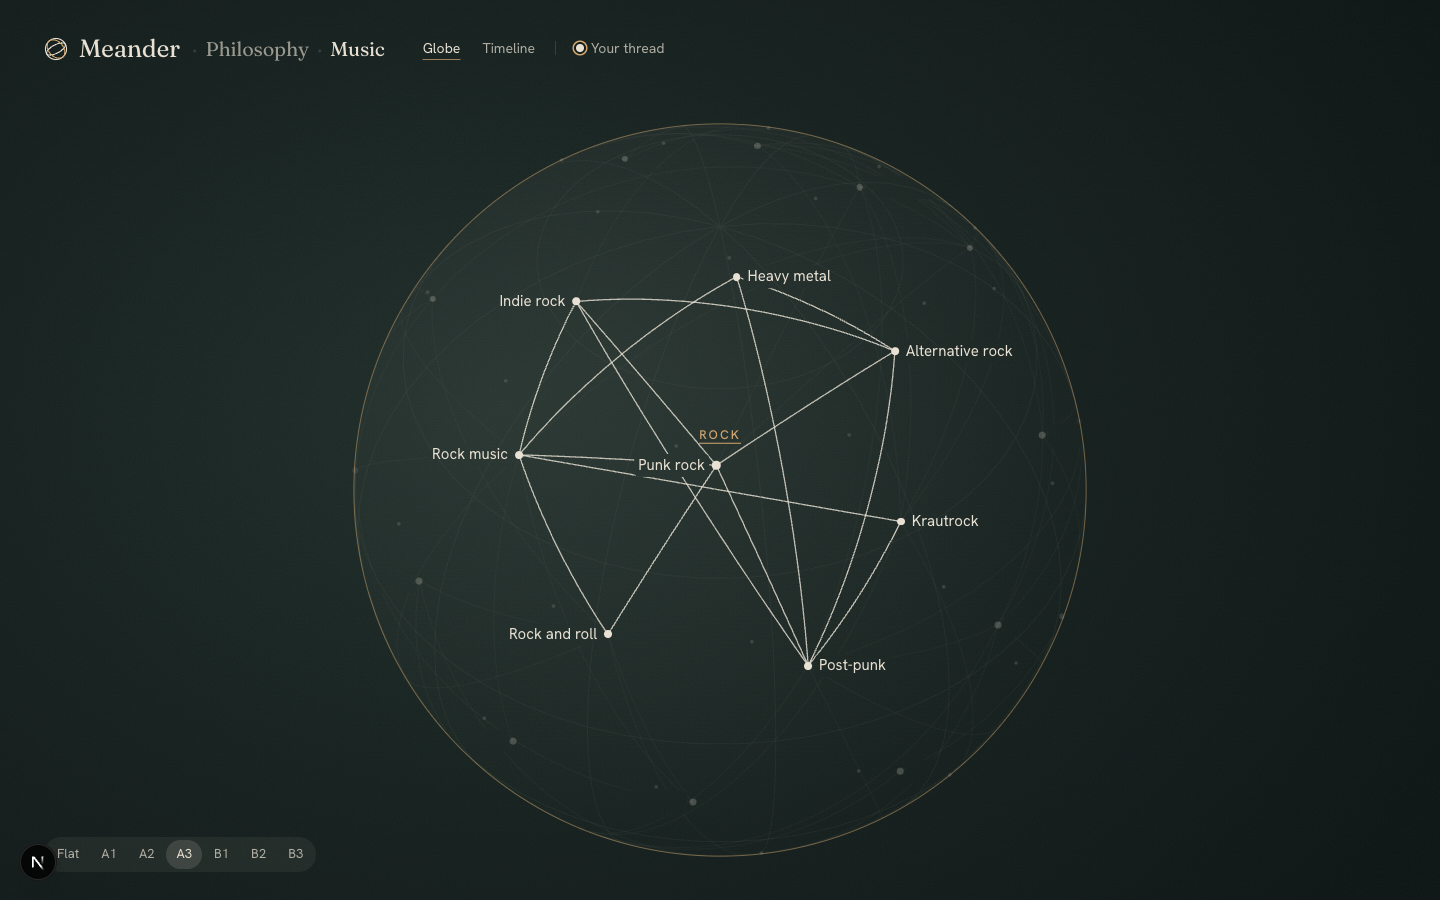
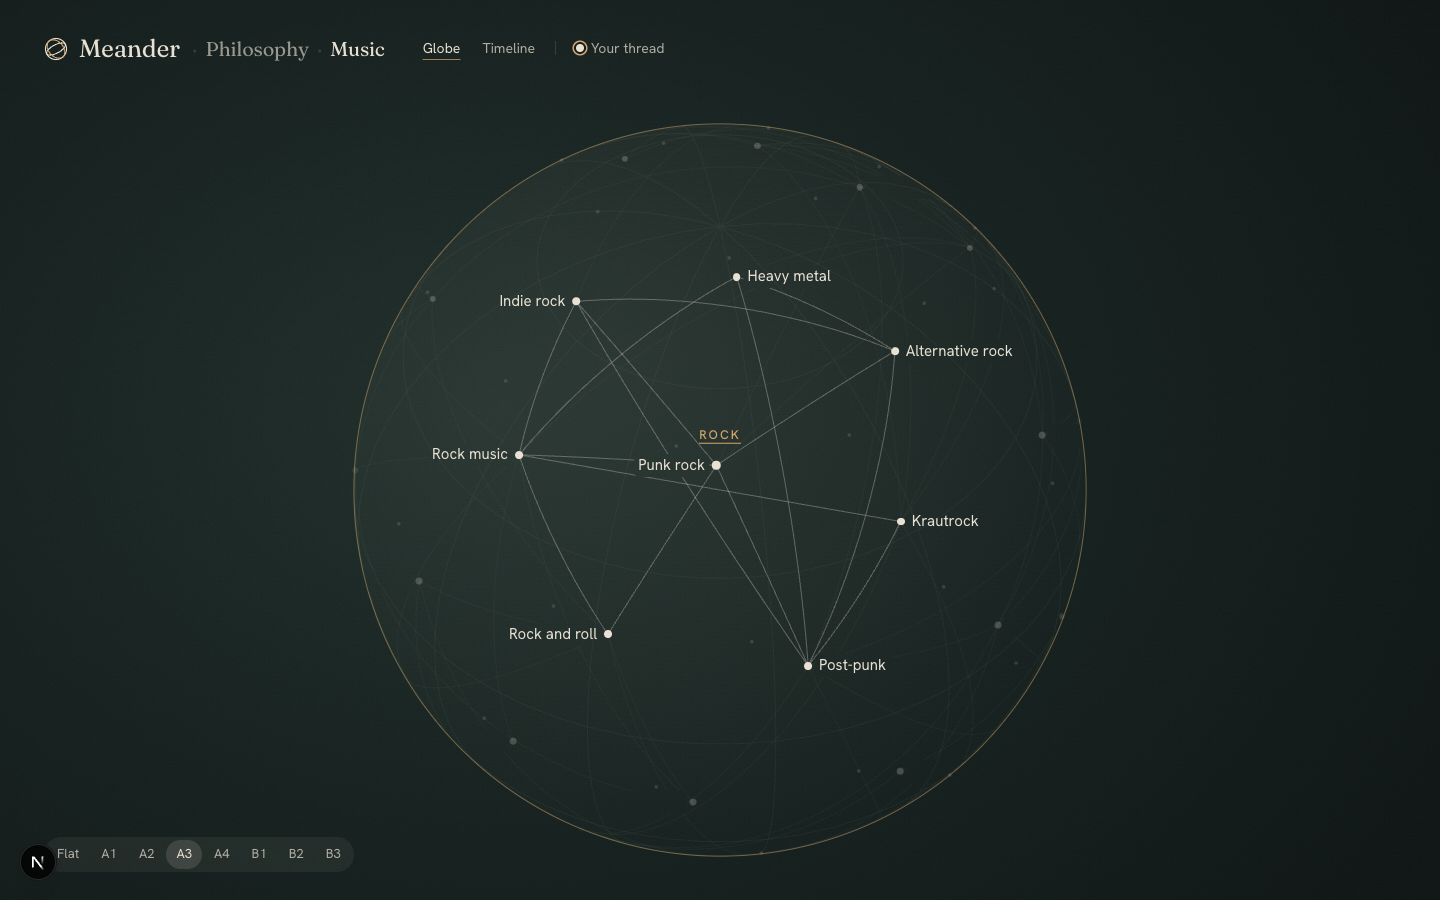
11 Meander: critic round 2, A4 (list + front family names), round 2 fixes

diff --git a/apps/11-meander/src/components/spin-globe.tsx b/apps/11-meander/src/components/spin-globe.tsx
@@ -4,7 +4,7 @@
 // turn it, and opening a school turns it to the front. Two families of directions, three each:
 //  A, spin with a light overview (neighbours round the back always pinned to the rim):
 //   a1 faint back-side dots + "The whole map" family list; a2 a small flat mini-map of everything, with the part
-//   you face ringed; a3 family names floating over their regions, the back ones faint, plus back-side dots.
+//   you face ringed; a3 family names floating over their front regions, plus back-side dots; a4 (critic r2) = a1 + a3.
 //  B, pure spin (nothing stands in for the back half):
 //   b1 the plain globe; b2 close-up, a bigger globe rising from the bottom like a horizon; b3 spotlight, names only
 //   near the middle, so a name appears as you turn it towards you.
@@ -14,7 +14,7 @@ import { splitName, type Field } from "@/lib/content";
 import { GAMMA, RIM, project, vec, type Vec3 } from "@/lib/globe";
 import { arcPath, centroid, clampPitch, facingRot, frontOf, graticule, lerpRot, ortho, placeSpinLabels, type Box, type Rot } from "@/lib/spin";
 
-export type SpinVariant = "a1" | "a2" | "a3" | "b1" | "b2" | "b3";
+export type SpinVariant = "a1" | "a2" | "a3" | "a4" | "b1" | "b2" | "b3";
 /** Families for music; the timeline's eras for philosophy (critic r1: Western/Eastern was two rows, not an overview). */
 export function groupsOf(field: Field) {
   if (field.families.length) return field.families.map((f) => ({ id: f.id, name: f.name, schools: field.schools.filter((s) => s.family === f.id) }));
@@ -228,10 +228,10 @@ export function SpinGlobe({ field, mode, focus, states, onOpen, C: C0, R: R0, W,
   // a3 (critic r1): a family's name sits at the middle of its members on the front, only when two or more are there,
   // and gives way to any genre label or dot it would touch; never for the back half.
   const regions: { id: string; name: string; x: number; y: number; ids: Set<string>; vs: Vec3[] }[] = [];
-  if (mode === "a3" && !focus) {
+  if ((mode === "a3" || mode === "a4") && !focus) {
     const taken = Object.values(placed).map((p) => p.rect);
     const groups = groupsOf(field)
-      .filter((g) => !famLit || g.id === famLit.id)
+      .filter((g) => !familyLit || (g.schools.length > 0 && g.schools.every((m) => familyLit.has(m.id))))
       .map((g) => ({ g, on: g.schools.filter((s) => s.id !== focus && P[s.id].z > 0.2) }))
       .filter((x) => x.on.length >= 2)
       .sort((a, b) => b.on.length - a.on.length)
@@ -278,7 +278,7 @@ export function SpinGlobe({ field, mode, focus, states, onOpen, C: C0, R: R0, W,
         <circle cx={C[0]} cy={C[1]} r={R} fill={`url(#${idPrefix}-lit)`} />
         <path className="grat" d={grat} />
         <circle className="rim" cx={C[0]} cy={C[1]} r={R} />
-        {(mode === "a1" || mode === "a3") && back.map((s) => (
+        {(mode === "a1" || mode === "a3" || mode === "a4") && back.map((s) => (
           <circle key={s.id} className={["bk", lit?.has(s.id) && "lit", near.has(s.id) && "near"].filter(Boolean).join(" ")} cx={P[s.id].x} cy={P[s.id].y} r={compact ? 1.4 : 1.8} />
         ))}
         <g mask={`url(#${idPrefix}-ko)`}>
@@ -355,7 +355,6 @@ export function GlobeIndex({ field, onLight, onTurn, onOpen, states }: {
   const setOf = (id: string | null) => { const g = groups.find((x) => x.id === id); return g ? new Set(g.schools.map((s) => s.id)) : null; };
   return (
     <nav className="gindex" aria-label="The whole map" onPointerDown={(e) => e.stopPropagation()} onMouseLeave={() => onLight(setOf(open))}>
-      <p className="gk">The whole map</p>
       <ul>
         {groups.filter((g) => g.schools.length).map((g) => (
           <li key={g.id} className={open === g.id ? "open" : undefined}>
@@ -375,7 +374,7 @@ export function GlobeIndex({ field, onLight, onTurn, onOpen, states }: {
                   <li key={s.id}>
                     <button type="button" className={states.get(s.id) && states.get(s.id) !== "new" ? "v" : undefined}
                       onClick={() => onOpen(s.id)}>
-                      {field.nameOf(s)}
+                      {splitName(s.name).short}
                     </button>
                   </li>
                 ))}
@@ -392,7 +391,7 @@ export function GlobeIndex({ field, onLight, onTurn, onOpen, states }: {
 export function GlobeSwitch({ mode, setMode }: { mode: string; setMode: (m: GlobeMode) => void }) {
   return (
     <div className="gswitch" role="radiogroup" aria-label="Globe prototype" onPointerDown={(e) => e.stopPropagation()}>
-      {([["flat", "Flat"], ["a1", "A1"], ["a2", "A2"], ["a3", "A3"], ["b1", "B1"], ["b2", "B2"], ["b3", "B3"]] as const).map(([m, t]) => (
+      {([["flat", "Flat"], ["a1", "A1"], ["a2", "A2"], ["a3", "A3"], ["a4", "A4"], ["b1", "B1"], ["b2", "B2"], ["b3", "B3"]] as const).map(([m, t]) => (
         <button key={m} type="button" role="radio" aria-checked={mode === m} className={mode === m ? "on" : undefined} onClick={() => setMode(m)}>{t}</button>
       ))}
     </div>

diff --git a/apps/11-meander/src/app/globals.css b/apps/11-meander/src/app/globals.css
@@ -616,12 +616,12 @@ svg.ov .bead { fill: var(--bone); transition: opacity 200ms ease; }
 .spin-phone { height: 360px; margin: 4px -4px 12px; overflow: hidden; }
 .spin-phone.big { height: 440px; }
 .spin-hint { text-align: center; color: var(--quiet); font-size: 14px; margin-top: 8px; }
-.gindex { position: absolute; left: 44px; bottom: 96px; width: 230px; z-index: 2; }
+.gindex { position: absolute; left: 44px; top: 300px; width: 230px; z-index: 2; }
 .gindex .gk { font-size: 11px; letter-spacing: 0.1em; text-transform: uppercase; color: rgba(233, 226, 212, 0.5); margin: 0 0 6px 10px; }
 .gindex ul { list-style: none; margin: 0; padding: 0; }
 .gindex .gh { display: block; width: 100%; padding: 4px 10px; border-radius: 8px; font-size: 13.5px; color: rgba(233, 226, 212, 0.6); text-align: left; }
 .gindex li.open > .gh { color: var(--brass); }
-.gindex .gl { margin: 2px 0 6px 10px; border-left: 1px solid rgba(233, 226, 212, 0.12); max-height: 210px; overflow-y: auto; }
+.gindex .gl { margin: 2px 0 6px 10px; border-left: 1px solid rgba(233, 226, 212, 0.12); max-height: 280px; overflow-y: auto; -webkit-mask-image: linear-gradient(#000 85%, transparent); mask-image: linear-gradient(#000 85%, transparent); padding-bottom: 18px; }
 .gindex .gl button { display: block; width: 100%; text-align: left; padding: 2px 12px; font-size: 13px; color: var(--quiet); border-radius: 6px; }
 .gindex .gl button.v { color: var(--brass); }
 @media (hover: hover) {
@@ -636,7 +636,9 @@ svg.ov .bead { fill: var(--bone); transition: opacity 200ms ease; }
 .globe.spin.fam-lit .n.lit b { opacity: 1; color: var(--bone); }
 .globe.spin.fam-lit .n.lit.nolabel .lb { visibility: visible; left: 10px !important; top: -10px !important; }
 .globe.spin.fam-lit .n.lit .dot { opacity: 1; }
-.globe.spin.a3 .n b { color: rgba(233, 226, 212, 0.68); }
+.globe.spin.a3 .n b, .globe.spin.a4 .n b { color: rgba(233, 226, 212, 0.68); }
+/* critic r2: a lit family's threads at about 40%, so the family reads before its hairball */
+.globe.spin.fam-lit svg.threads path.th.lit { stroke-opacity: 0.32; stroke-width: 1; }
 .globe.spin .region { position: absolute; transform: translate(-50%, -50%); padding: 2px 4px; border-radius: 4px; font: 500 12.5px/1 var(--sans); letter-spacing: 0.16em; text-transform: uppercase; color: var(--brass); white-space: nowrap; cursor: pointer; }
 .globe.spin .region.on { text-decoration: underline; text-underline-offset: 4px; }
 .globe.spin.compact .region { font-size: 10px; letter-spacing: 0.12em; }

diff --git a/apps/11-meander/src/components/globe-view.tsx b/apps/11-meander/src/components/globe-view.tsx
@@ -286,7 +286,7 @@ export function GlobeView({ nav }: { nav: Nav }) {
             key={field.id}
             field={field} mode={gmode as SpinVariant} focus={focus} states={states} onOpen={(id) => { setLitIds(null); nav.openSchool(id); }}
             C={C} R={R} W={W} H={H} inert={inside || timeline} litIds={focus ? null : litIds} turnTo={turnTo} idPrefix="desk"
-            fixed={[{ x: 0, y: 0, w: W, h: 84 }, ...(hasCard ? [{ x: 990, y: 0, w: 450, h: H }] : []), ...(gmode === "a1" && !hasCard ? [{ x: 30, y: 96, w: 270, h: 780 }] : [])]}
+            fixed={[{ x: 0, y: 0, w: W, h: 84 }, ...(hasCard ? [{ x: 990, y: 0, w: 450, h: H }] : []), ...((gmode === "a1" || gmode === "a4") && !hasCard ? [{ x: 30, y: 96, w: 270, h: 780 }] : [])]}
           >
             {titleEl}
           </SpinGlobe>
@@ -365,7 +365,7 @@ export function GlobeView({ nav }: { nav: Nav }) {
         </div>
         </>
         )}
-        {gmode === "a1" && !hasCard && !timeline && !inside && (
+        {(gmode === "a1" || gmode === "a4") && !hasCard && !timeline && !inside && (
           <GlobeIndex field={field} states={states} onLight={setLitIds} onOpen={(id) => { setLitIds(null); nav.openSchool(id); }} onTurn={(v) => setTurnTo((t) => ({ v, n: (t?.n ?? 0) + 1 }))} />
         )}
         <GlobeSwitch mode={gmode} setMode={setGmode} />

diff --git a/apps/11-meander/src/lib/globe-proto.ts b/apps/11-meander/src/lib/globe-proto.ts
@@ -6,8 +6,8 @@
 import { useEffect } from "react";
 import { useLocalStorage } from "./use-local-storage";
 
-export type GlobeMode = "flat" | "a1" | "a2" | "a3" | "b1" | "b2" | "b3";
-const MODES: GlobeMode[] = ["flat", "a1", "a2", "a3", "b1", "b2", "b3"];
+export type GlobeMode = "flat" | "a1" | "a2" | "a3" | "a4" | "b1" | "b2" | "b3";
+const MODES: GlobeMode[] = ["flat", "a1", "a2", "a3", "a4", "b1", "b2", "b3"];
 const KEY = "11-meander:globe-proto";
 const isMode = (v: unknown): v is GlobeMode => MODES.includes(v as GlobeMode);
 

diff --git a/docs/products/11-meander/design/phase5/critic.md b/docs/products/11-meander/design/phase5/critic.md
@@ -19,3 +19,15 @@ Fixed after round 1:
 
 Not changed (the card and title belong to the signed-off design): the card's clipped bottom row, the title under the
 focus dot, the dotted "provoked it" line, the "Globe"/"Genres" tab names.
+
+## Round 2 (28 Nov): A1 8/10, A3 9/10
+
+A1: hierarchy, feel and copy each up a point; the family-open state works ("the best frame in the set" for
+philosophy's Contemporary). Left: in-family threads a new hairball, the list jumped and hid members, the eyebrow.
+A3: clutter, hierarchy, legibility and feel up; left: hidden families have no name or route (3 of 8 named on first
+open), the open family's name reads as a label's heading, no family names on the phone.
+Critic's verdict: A1 does the first-open job narrowly better, A3 is the better-looking screen; strongest is both
+together. So I built **A4 = A1's list + A3's front family names**, with the r2 fixes: lit-family threads at ~40%,
+the list anchored from its top (family names never move), a fade at the end of a long member list, no eyebrow, the
+list using the globe's short names, and other families' names hidden while one family is open.
+Rounds stop here (the score reached the 9 target); the final pick is the owner's.

diff --git a/docs/products/11-meander/journal.md b/docs/products/11-meander/journal.md
@@ -261,3 +261,4 @@ For the shared pages (knowledge bank, problems, learnings, process changes), wri
 - **Owner pick (L64):** "I like A1 and A3." Family B and A2 dropped. Next: a preview to spin them live, and one critic round on both.
 - **Preview for spinning live (pre-approved preview deploy):** https://meander-esyy0zoi2-mimirswell.vercel.app (`?globe=a1` or `?globe=a3`; may ask for the owner's Vercel sign-in).
 - **Critic round 1 (A1 5/10, A3 5/10)** and fixes: see `design/phase5/critic.md`.
+- **Critic round 2: A1 8/10, A3 9/10.** Built A4 (A1 list + A3 names) from the critic's recommendation, with the round 2 fixes. Owner picks the final from A1, A3, A4.
